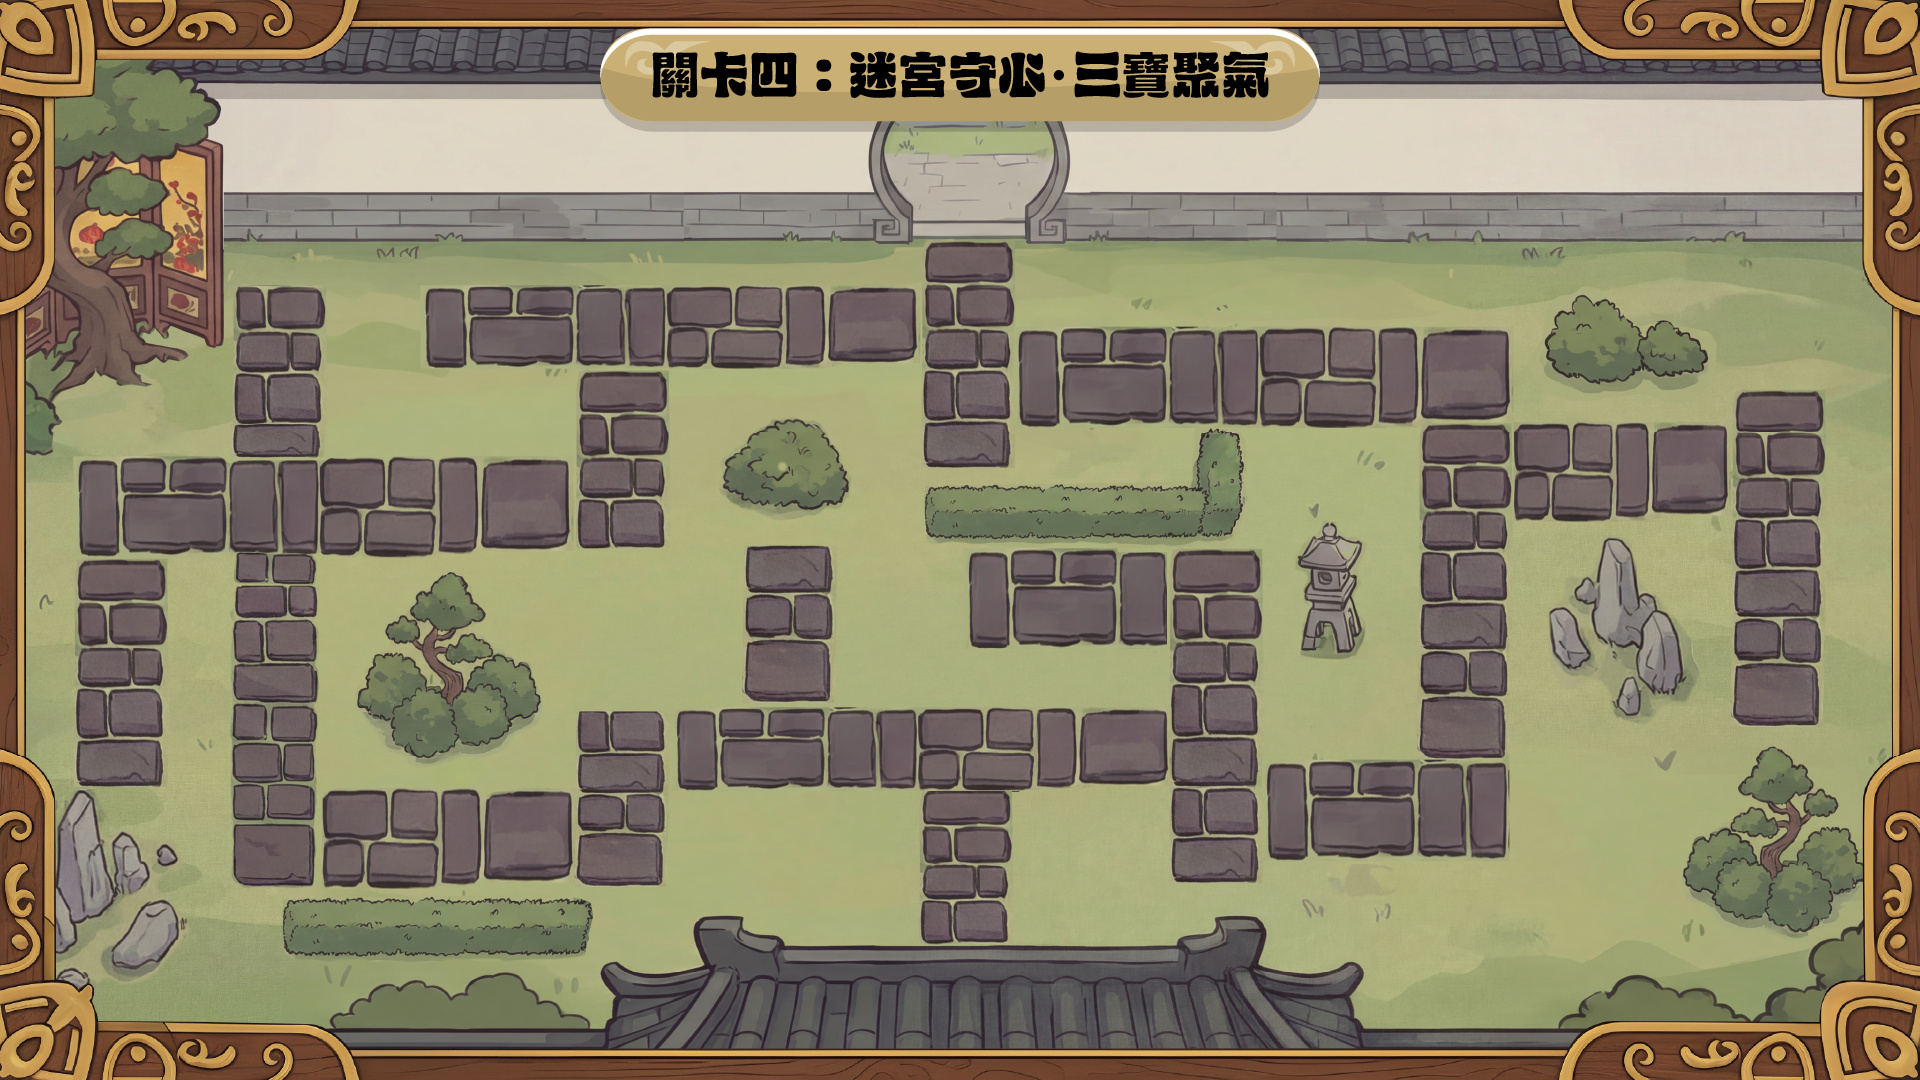
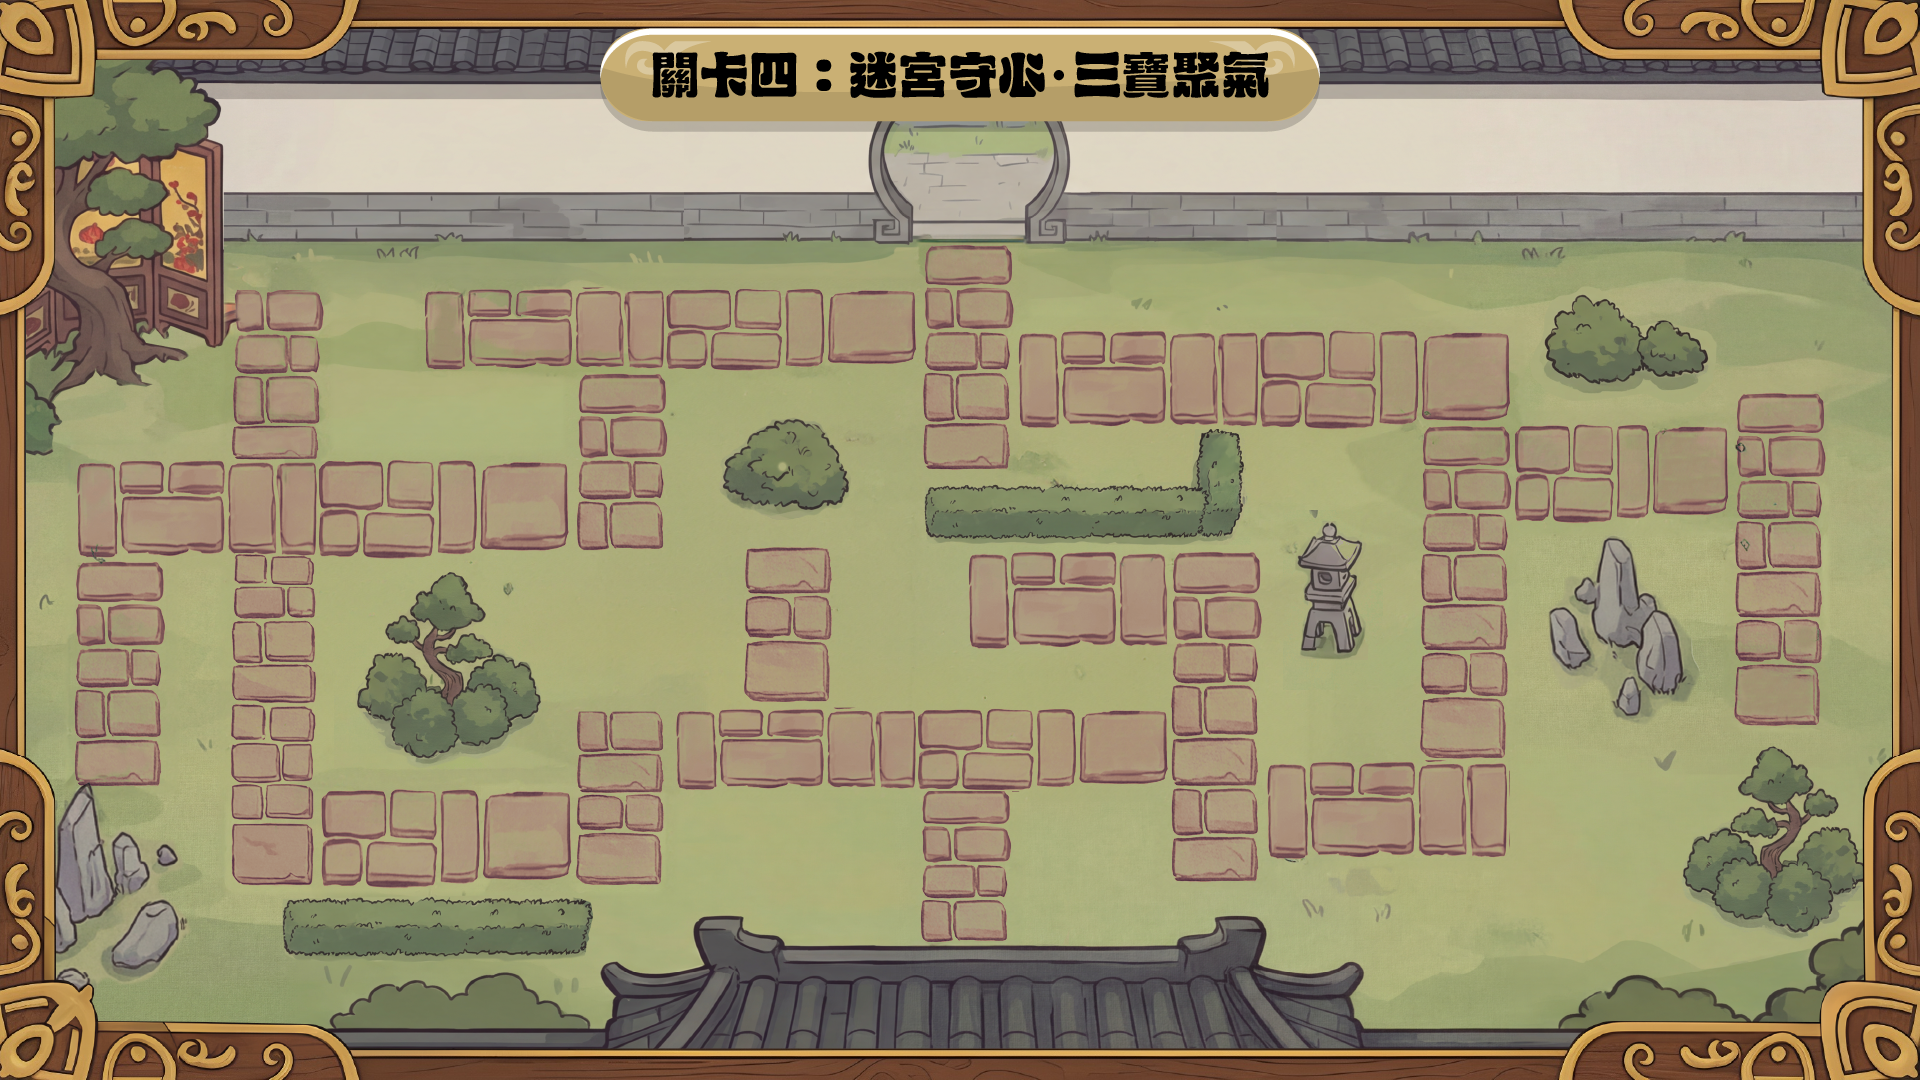
finish the game 4

Changed region(s): [[0.0312, 0.2139, 0.9688, 0.8861]]

diff --git a/src/scenes/Game/GameScene_4.js b/src/scenes/Game/GameScene_4.js
@@ -100,18 +100,14 @@ export class GameScene_4 extends BaseGameScene {
         // Player start position
         this.playerStartX = this.centerX;
         this.playerStartY = 800;
-        console.log('Player start position:', this.playerStartX, this.playerStartY);
-
 
         this.initGame('game4_bg', 'game4_description', true, false, {
             targetRounds: 3,
-            roundPerSeconds: 60000,
-            isAllowRoundFail: true,
+            roundPerSeconds: 60,
+            isAllowRoundFail: false,
             isContinuousTimer: true,
             sceneIndex: 4
         });
-
-        //  this.gameUI.descriptionPanel.setVisible(false);
 
         // Direction buttons
         this.leftBtn = new CustomButton(this, 1500, 950, 'left_btn', 'left_btn_click', () => {
@@ -148,7 +144,7 @@ export class GameScene_4 extends BaseGameScene {
         this.maxFailObjects = 9;
         this.maxSuccessObjects = 9;
         this.collectedSuccessObjects = 0;
-        this.lives = 3;
+        this.collectedFailObjects = 0;
         this.placeFailObjects();
         this.placeSuccessObjects();
 
@@ -195,7 +191,7 @@ export class GameScene_4 extends BaseGameScene {
         this.createWall(400, 320, 150, 100, debugVisible, true);
         this.createWall(450, 420, 280, 100, debugVisible, true);
 
-        this.createWall(1100, 850, 180, 120, debugVisible, true);
+        this.createWall(1090, 850, 160, 120, debugVisible, true);
         this.createWall(1820, 780, 150, 120, debugVisible, true);
         this.createWall(1870, 350, 100, 980, debugVisible, true);
         this.createWall(900, 560, 140, 180, debugVisible, true);
@@ -293,16 +289,6 @@ export class GameScene_4 extends BaseGameScene {
             }
         }
 
-        // if (this.debugCollider && this.debugGraphics) {
-        //     this.debugGraphics.clear();
-        //     // Red when colliding, cyan when free
-        //     this.debugGraphics.lineStyle(2, colliding ? 0xff0000 : 0x00ffff, 1);
-        //     this.debugGraphics.strokeRect(playerRect.x, playerRect.y, playerRect.width, playerRect.height);
-        //     // Show coin collection radius in yellow
-        //     this.debugGraphics.lineStyle(1, 0xffff00, 0.6);
-        //     this.debugGraphics.strokeCircle(x, y, 80);
-        // }
-
         return colliding;
     }
 
@@ -314,8 +300,12 @@ export class GameScene_4 extends BaseGameScene {
             const dist = Phaser.Math.Distance.Between(this.player.x, this.player.y, failObj.x, failObj.y);
             if (dist < hitRadius) {
                 failObj.setVisible(false);
-                this.lives--;
-                console.log(`[GameScene_4] Fail object hit! Lives: ${this.lives}`);
+                this.collectedFailObjects++;
+                console.log(`[GameScene_4] Fail object hit! Fails: ${this.collectedFailObjects}`);
+
+                // Update the round UI indicator based on total objects collected
+                this.roundIndex = this.collectedSuccessObjects + this.collectedFailObjects - 1;
+
                 this.handleLose();
                 return;
             }
@@ -332,10 +322,15 @@ export class GameScene_4 extends BaseGameScene {
                 successObj.setVisible(false);
                 this.collectedSuccessObjects++;
                 console.log(`[GameScene_4] Success object collected! (${this.collectedSuccessObjects}/3)`);
-                if (this.collectedSuccessObjects >= 3) {
-                    console.log('[GameScene_4] 3 success objects collected! You win!');
+
+                // Update the round UI indicator based on total objects collected
+                this.roundIndex = this.collectedSuccessObjects + this.collectedFailObjects - 1;
+                this.updateRoundUI(true);
+
+                if (this.collectedSuccessObjects >= this.targetRounds) {
                     this.onRoundWin();
                 }
+
                 return;
             }
         }
@@ -346,11 +341,9 @@ export class GameScene_4 extends BaseGameScene {
         const failObjectPositions = [
             { x: 250, y: 330 },
             { x: 100, y: 500 },
-            { x: 600, y: 350 },
             { x: 780, y: 600 },
             { x: 850, y: 280 },
-            { x: 1200, y: 380 },
-            { x: 1200, y: 580 },
+            { x: 1200, y: 560 },
             { x: 1450, y: 450 },
             { x: 1780, y: 650 },
         ];
@@ -423,8 +416,17 @@ export class GameScene_4 extends BaseGameScene {
 
     resetForNewRound() {
         this.isMoving = false;
-        this.lives = 3;
+        this.collectedFailObjects = 0;
         this.collectedSuccessObjects = 0;
+        this.roundIndex = 0; // Reset index to 0 since we reset the board
+
+        // Reset round UI icons back to initial state
+        if (this.gameUI?.roundStates) {
+            this.gameUI.roundStates.forEach(state => {
+                state.content.setTexture('game_gamechance');
+                state.isSuccess = null;
+            });
+        }
 
         if (this.player) {
             this.player.x = this.playerStartX;
@@ -446,7 +448,19 @@ export class GameScene_4 extends BaseGameScene {
 
     }
 
-    showWin() {
+    onRoundWin() {
+        if (!this.isGameActive || this.gameState === 'gameWin') return;
+
+        this.gameState = 'gameWin';
+        this.gameTimer.stop();
+        this._calculateTiming(true);
+        this.enableGameInteraction(false);
+        this.showFeedbackLabel(true);
+        this.showBubble('win');
+    }
+
+    onWinBubbleClose() {
+        GameManager.saveGameResult(4, true, this.totalUsedSeconds);
         this.showObjectPanel();
     }
 